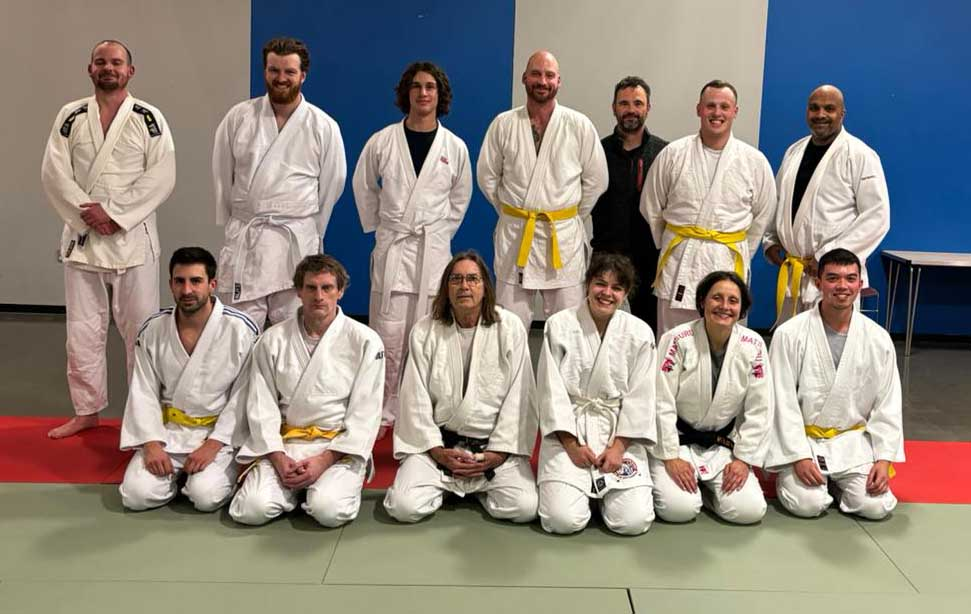
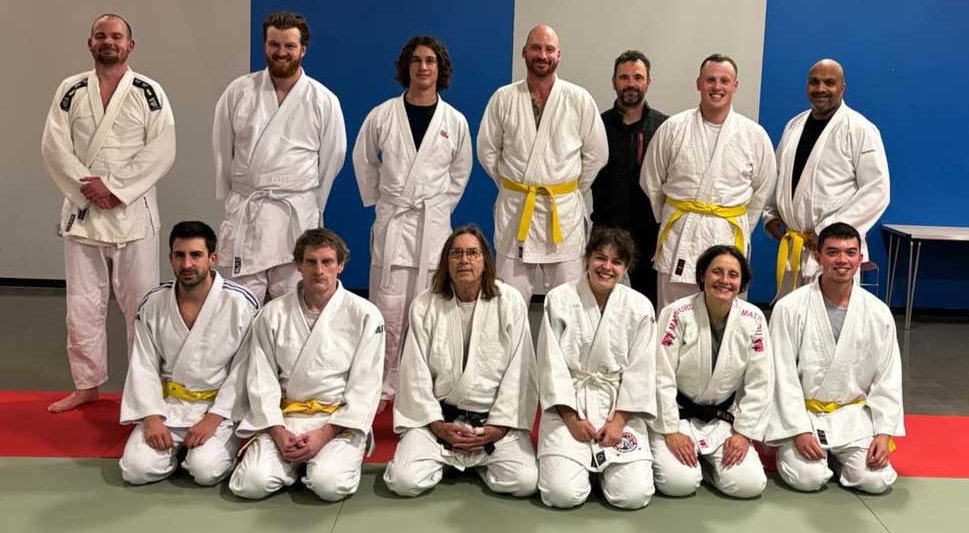
add kids photo

diff --git a/docs/index.html b/docs/index.html
@@ -17,6 +17,7 @@
     <main style="max-width: 1000px; margin: 40px auto;">
       <h1>Maidenhead Judo Club</h1>
       <section><img src="banner.jpg"></section>
+      <section><img src="kids.jpg"></section>
       <section>
         <h2>A local, friendly, judo club</h2>
         <p>For those who want to take part in competitive judo or just want to have fun learning an Olympic sport in a safe environment.</p>
